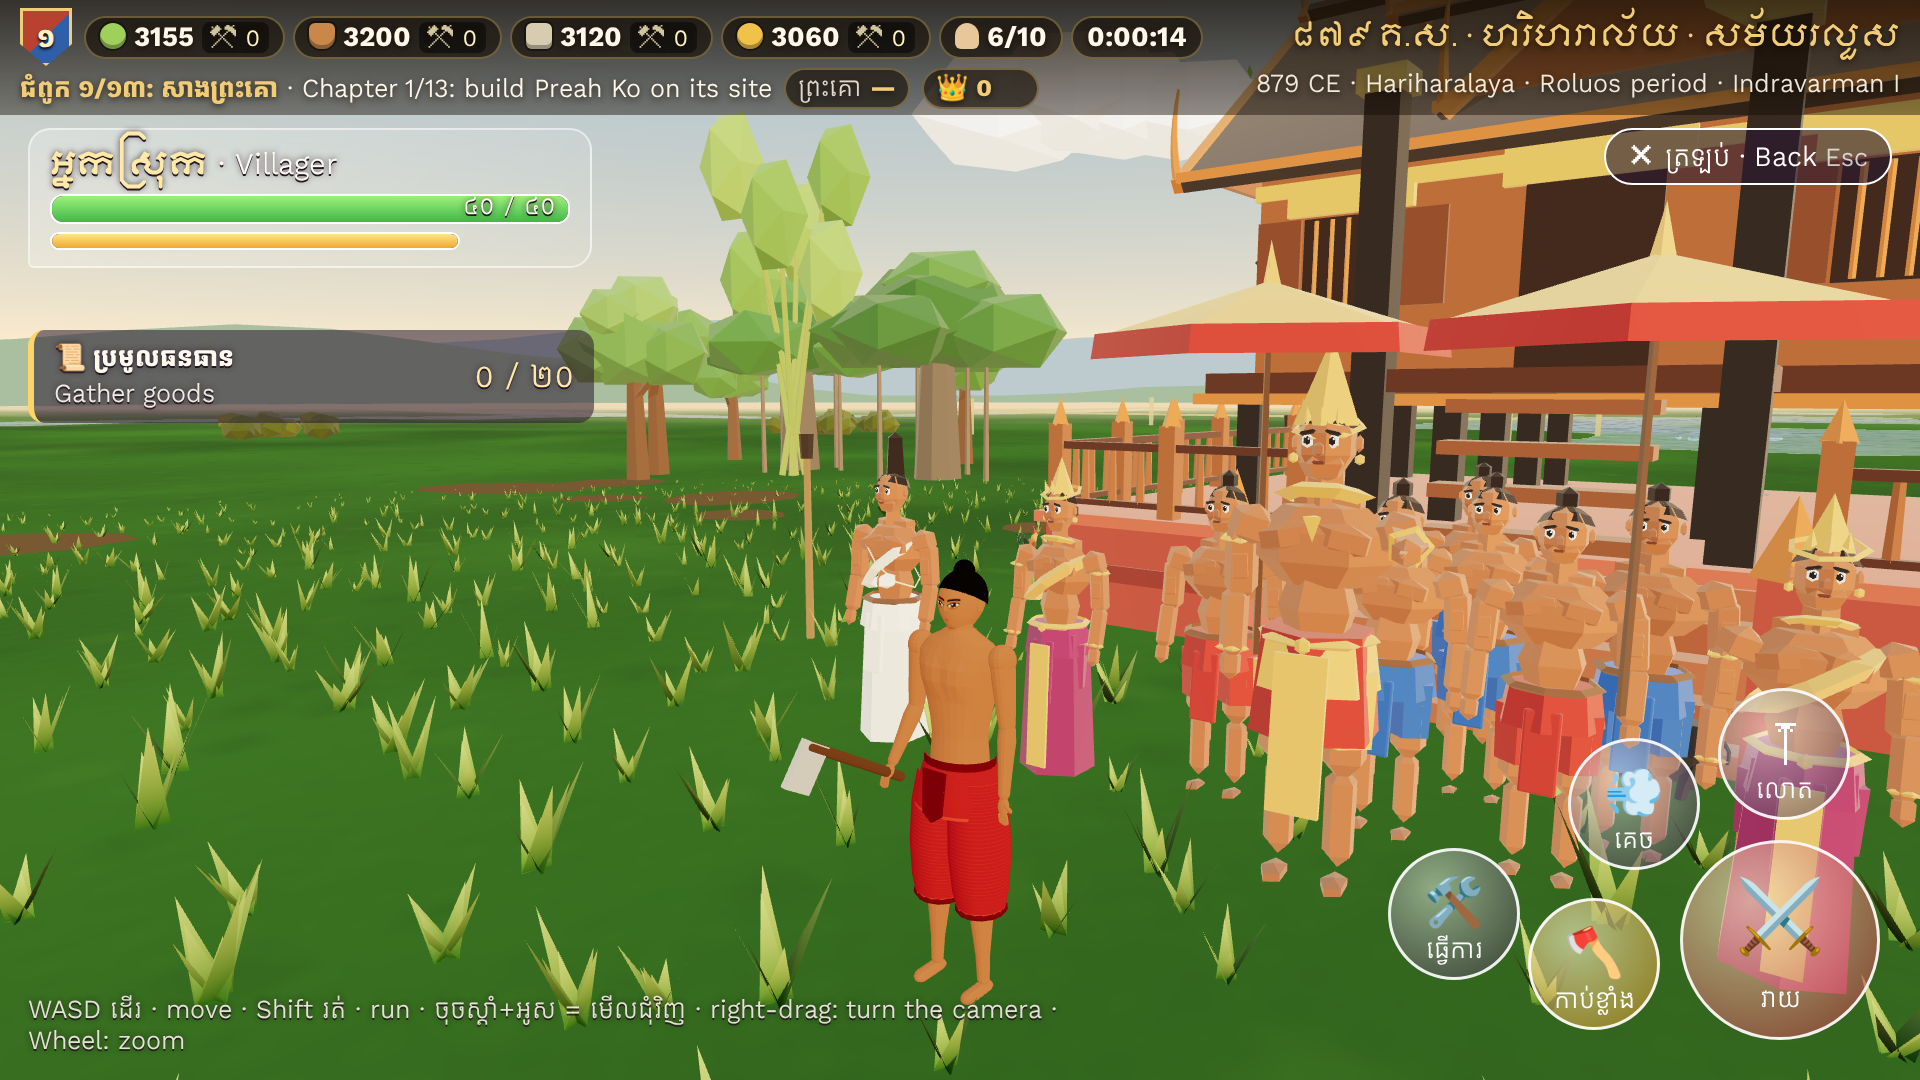
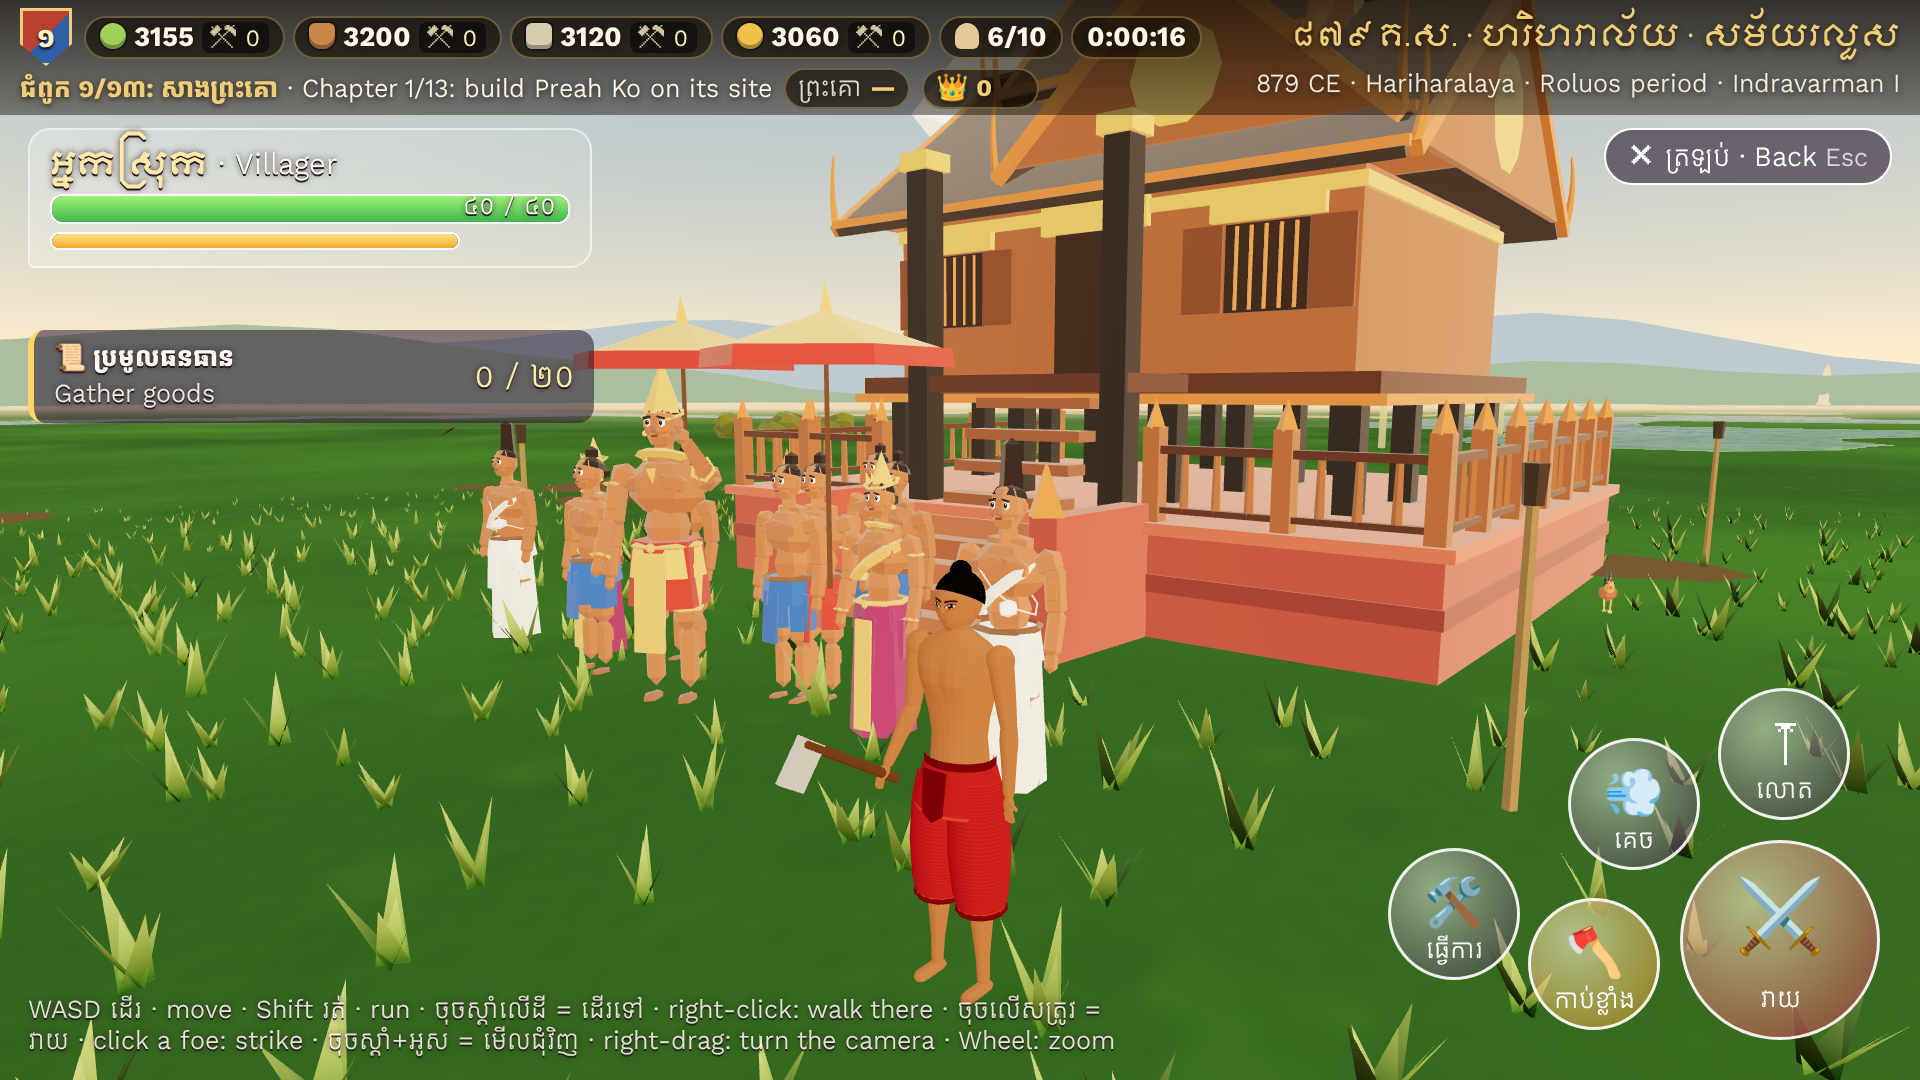
1.9.0 Sprint 1: checks for the hero controls; KG-05 screens
Claude-Session: https://claude.ai/code/session_017dmXPdLMp9auDpbSrbmvn9

diff --git a/docs/CHECKS.md b/docs/CHECKS.md
@@ -592,3 +592,20 @@ PK's "master optimization prompt", checked against the code first; parts that di
 | e2e: KG-01…KG-10, KM-01…KM-04, AX-01, AX-02, smoke | ✅ | |
 
 **Not done (PK's choice):** WebGPU, a 600-clump grass cap, per-tree `THREE.LOD`, the model re-simplifier. **Not verified here:** frame times on the stream laptop's GTX 1660 Super (software GL here, so only the game's own CPU work was measured).
+
+### 1.9.0, Sprint 1, first part: the 3D hero's controls (2026-10-16)
+
+PK said "Let start" on the upgrade plan; the six decisions follow the proposals (D144). Controls: D145.
+
+| Check | Result | Evidence |
+| --- | --- | --- |
+| A / D step sideways, S steps back at the back speed, he keeps facing ahead, legs run backward on S | ✅ | `hero/heroControls.test.ts` |
+| Ten seconds of A with the camera rule on: a straight line, the camera never turns (the old spin) | ✅ | `hero/heroControls.test.ts`; e2e KG-05 (A held: mode `side`, camera yaw unchanged, heading ahead) |
+| The touch stick still turns him toward where it points | ✅ | `hero/heroControls.test.ts` |
+| Right click vs right drag; walks to the clicked point and stops; a move key takes over; gives up at a wall; walking up to a foe ends in a strike | ✅ | `hero/heroControls.test.ts` |
+| Gold ring in reach, red beyond; a click strikes or walks up; the cursor picks raiders and animals, never a friend | ✅ | `hero/heroControls.test.ts` |
+| Landing dust: fall speed reported; 20 puffs (30 after a hard fall) lifted 0.35 m above the 10 cm lawn, ochre on earth, green on grass, a splash on water; particles take the colours and spread in a ring | ✅ | `hero/heroControls.test.ts` |
+| `npm run verify` (lint, typecheck, 79 test files / 693 tests, build) | ✅ | |
+| e2e KG-05 (levy, overview, 3D hero: W, A, strike, Esc, the king) | ✅ 1 passed (3.5 min) | `docs/screens/k-hero.png` |
+
+**Not done (D145):** "Q W E R skills at the cursor" and "arrow keys walk" (those keys are already Dodge, Forward, Work, Skill and the camera). The walk to a clicked point goes straight with wall sliding, not along a path round obstacles. **Not seen here:** the rings and dust at full speed on PK's PC (software GL in the test).
